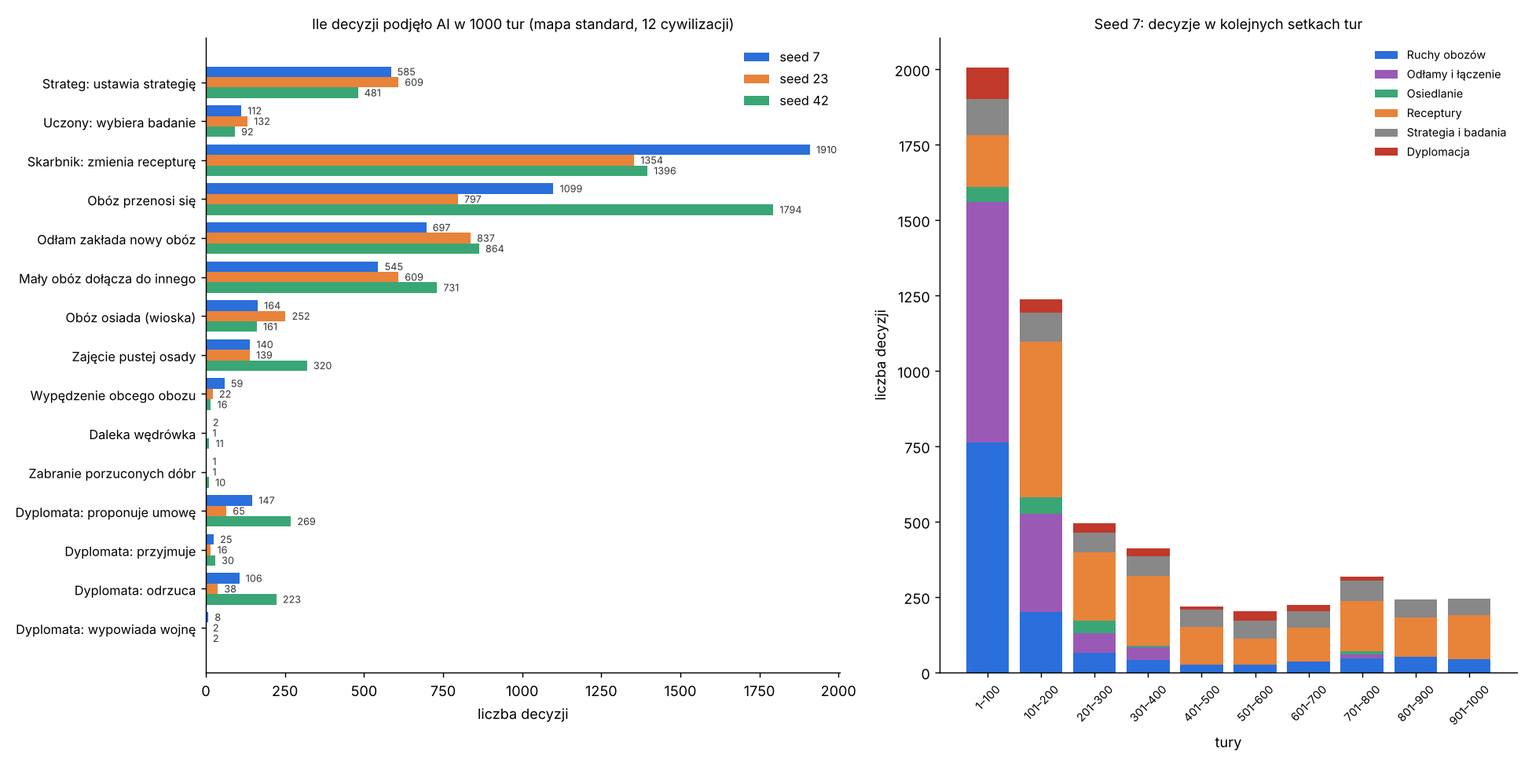
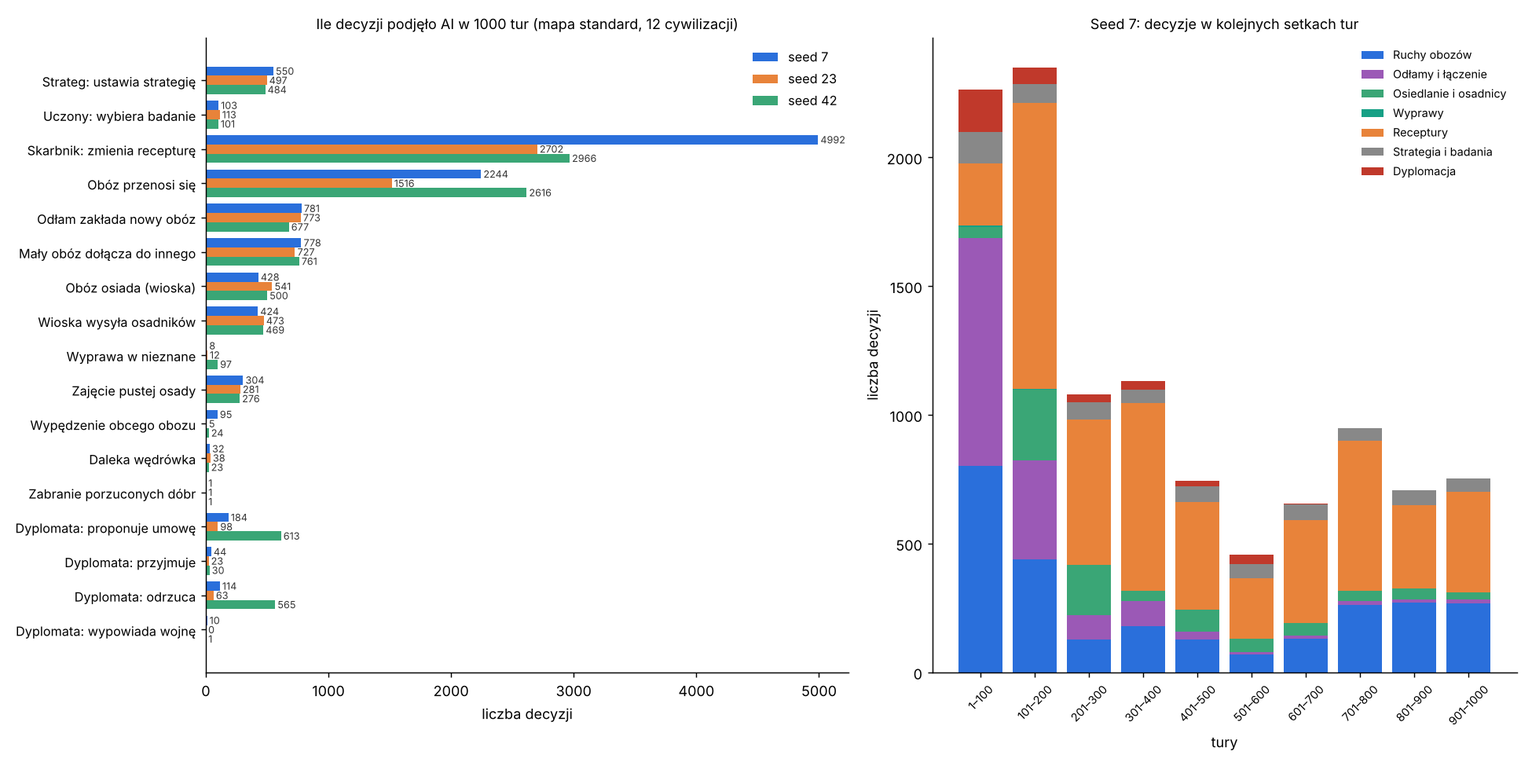
AI docs for PR C: evaluation, statistics, history, system page, charts
Claude-Session: https://claude.ai/code/session_01G7FPnTQzrnWpHdyxDhMmdW

diff --git a/docs/ai/tools/land_chart.py b/docs/ai/tools/land_chart.py
@@ -3,7 +3,7 @@
 Usage: python3 docs/ai/tools/land_chart.py RUNS_DIR
 RUNS_DIR holds before7.csv, before23.csv, before42.csv, after7.csv, after23.csv and after42.csv: --stats files
 (CivSim.Headless --stats, standard map, 1000 turns) from before and after a change. Needs the settlements and
-spread_cells columns (added in PR C); a "before" file without spread_cells draws only its settlements. Needs matplotlib.
+spread_cells columns (added in PR C; for an older build, add them to its HeadlessRun.cs first). Needs matplotlib.
 """
 import csv
 import os
@@ -38,15 +38,16 @@ for seed in SEEDS:
         spread = column(rows, 'spread_cells')
         if spread is not None:
             dist.plot(turns, spread, style, color=COLORS[seed], label=label)
-        camps = column(rows, 'camps')
+        lived = column(rows, 'settlements')
+        if lived is not None:
+            sets.plot(turns, lived, style, color=COLORS[seed], label=label)
         villages = column(rows, 'villages')
-        if camps is not None and villages is not None:
-            sets.plot(turns, [a + b for a, b in zip(camps, villages)], style, color=COLORS[seed], label=label)
+        if villages is not None:
             vill.plot(turns, villages, style, color=COLORS[seed], label=label)
 
 for ax, title, ylabel in (
         (dist, 'Jak daleko od startu żyją ludzie (średnia na osobę)', 'pola'),
-        (sets, 'Wszystkie osady (obozy + wioski)', 'liczba osad'),
+        (sets, 'Zamieszkane osady (obozy i wioski z ludźmi)', 'liczba osad'),
         (vill, 'Wioski (osady rolnicze)', 'liczba wiosek')):
     ax.set_title(title, fontsize=10)
     ax.set_xlabel('tura')

diff --git a/docs/ai/08-ocena-i-uwagi.md b/docs/ai/08-ocena-i-uwagi.md
@@ -3,7 +3,7 @@
 [← spis treści](README.md)
 
 Ta strona to moja (Claude) uczciwa ocena obecnego AI po przeczytaniu całego kodu i trzech grach po 1000 tur. Każda poprawka
-zmienia zasady gry, więc decydujesz Ty. **Stan: po PR B (wartości i priorytety)**; punkty, które PR B zamknął, są oznaczone.
+zmienia zasady gry, więc decydujesz Ty. **Stan: po PR C (ziemia i migracje)**; punkty, które PR B i PR C zamknęły, są oznaczone.
 
 ## Podsumowanie w jednej tabeli
 
@@ -11,16 +11,18 @@ zmienia zasady gry, więc decydujesz Ty. **Stan: po PR B (wartości i priorytety
 | --- | --- | --- |
 | Wspólna ocena i wybór (czynniki, 3 najlepsze, ostrożność) | **dobre** | jeden wzór dla wszystkich, deterministyczny, wyjaśnialny |
 | Gubernator: przeprowadzki, odłamy, wypędzenia | **dobre, rozsądnie złożone** | liczy jedzenie, wygodę, odległość, kierunek, opinię, siłę |
-| Gubernator: osiedlenie (G4) | **za proste** | w praktyce „zna rolnictwo i ma 60 osób = osiada” |
+| Gubernator: osiedlenie (G4) | **dobre (od PR C)** | plon dla prawdziwych rolników, porównanie ze zbieractwem i ekspansywnością |
 | Gubernator: łupy (G6), dołączanie (G1) | proste, ale wystarczy | rzadkie albo oczywiste sytuacje |
-| Wioski | **brak AI** | po osiedleniu gubernator nic nie robi |
+| Wioski | **proste (od PR C)** | wysyłają osadników (G7), gdy są zatłoczone albo pola wyjałowione; budowy i dzielnice w późniejszych etapach |
 | Strateg | **dobre (od PR B)** | każda z 6 wag na coś wpływa; nauka rośnie, gdy spotkani wiedzą więcej, wpływ z liczbą spotkanych; podbój czeka na 4e |
 | Charakter | **żywy (od PR B)** | każda cecha zmienia decyzję (test `DeadValueTests`); ciekawość zmniejsza strach przed kosztem technologii |
 | Dyplomata (4d) | **dobre, z jedną dziurą** | ta sama ocena dla obu stron, reaguje na wojnę i napad poza rytmem (ADR 0018); ale „widzi” dzisiejszą siłę z pamiętanych pól |
 | Skarbnik | **dobre (od PR B), jedna słabość** | osady sieci koordynują się, jedzenie kontra wyroby, premia za handel; zostało przełączanie odzież ↔ chleb |
 | Uczony | **dobre (od PR B)** | priorytet z położenia, braków i charakteru, koszt jako przeszkoda; rolnictwo przychodzi wcześniej (do oceny) |
-| Wiedza AI | **częściowo naprawione (PR B)** | obce obozy i ich siła tylko z pól widzianych w ostatnim kroku; jedzenie pól nadal dzisiejsze |
-| Rytm decyzji | **dobre (od ADR 0018)** | każda cywilizacja w rytmie swojej ery, reakcje poza rytmem; zwiad i ruch obozu nadal „na krok” (PR C) |
+| Wiedza AI | **częściowo naprawione (PR B, PR C)** | obce obozy i ich siła tylko z pól widzianych w ostatnim kroku; ziemia wyceniana z technologiami cywilizacji; jedzenie pól nadal dzisiejsze |
+| Wyprawy (G8) | **nowe, rzadkie** | 8–97 na grę; zależą od ciekawości i ekspansywności |
+| Rytm decyzji | **dobre (od ADR 0018, PR C)** | każda cywilizacja w rytmie swojej ery, reakcje poza rytmem; zwiad i marsz obozu na stulecie |
+| Wydajność | **do pilnowania (PR C)** | 3–4× więcej osad; stare systemy porównują każdą osadę z każdą (patrz pkt 10) |
 
 ## 1. Wagi i cechy, które nic nie zmieniają (zamknięte w PR B)
 
@@ -77,7 +79,7 @@ koszt jest przeszkodą, którą ciekawość zmniejsza. Opis: [uczony](05-uczony.
 Jeśli to za szybko, najprostsza gałka to `scholar.villageWorthPerPerson` (0,1). Zostały uproszczenia: uczony patrzy na wartości
 bazowe towarów (nie na ceny w sieci) i tylko jeden krok dalej.
 
-## 4. Osiedlenie to w praktyce próg, a nie wybór
+## 4. Osiedlenie to w praktyce próg, a nie wybór (zamknięte w PR C)
 
 Rachunek G4 zakłada, że każde pole strefy uprawia 40 rolników, choć obóz ma ich kilkudziesięciu. Dlatego plon wychodzi zwykle
 kilkanaście razy większy od potrzeb: w 539 osiedleniach z trzech gier mediana `farm yield` to ok. 1650%, najmniej 169%, najwięcej
@@ -86,6 +88,12 @@ koczowaniem, wag ani charakteru.
 
 **Propozycja:** liczyć plon dla prawdziwej liczby producentów (najlepsze pola najpierw, jak robi to system rolnictwa) i porównać z
 tym, co daje zbieractwo; ekspansywna cywilizacja mogłaby dłużej koczować.
+
+**Zrobione (PR C):** plon liczymy dla producentów obozu na najlepszych polach strefy (najwyżej `farmersPerCell` na pole), a
+osiedlenie wymaga też, żeby rolnictwo dało więcej niż zbieractwo razy waga ekspansji i ekspansywność
+(`settleOverGatheringPercent` = 100%). W 1469 osiedleniach z trzech gier mediana `farm yield` to 280% (najmniej 151%,
+najwięcej 363%), a `over gathering` 292% (101–1006). Próg 150% jest teraz prawdziwą granicą. Osiedleń jest 2–3 razy więcej niż
+przed PR C (428–541 zamiast 161–252), bo większość nowych obozów zakładają osadnicy z wiosek (G7) i one też osiadają.
 
 ## 5. Odstępy czasu: rozwiązane przez zegar świata (ADR 0018)
 
@@ -103,9 +111,11 @@ To celowo nie są lata: Twoja zasada „każda cywilizacja decyduje co tyle lat,
 planuje częściej. Tempa (wzrost, psucie, pamięć relacji) dalej są na rok.
 
 Uwaga do zostawionej rzeczy: zwiadowca (15 pól) i ruch obozu (10 pól) to nadal „na własny krok”, więc rozwinięte cywilizacje
-odkrywają świat i wędrują szybciej w przeliczeniu na rok. To zmieniamy w PR C (ziemia i migracje), bo zmienia równowagę wędrówek.
+odkrywają świat i wędrują szybciej w przeliczeniu na rok. **Zrobione (PR C):** zwiadowcy to 2 wyprawy na stulecie
+(`scoutsPerCentury`), a obóz w drodze idzie 20 pól na stulecie (`marchCellsPerCentury`, najwyżej jeden ruch na krok);
+`data/perception.json`.
 
-## 6. Gubernator nie zna swoich technologii
+## 6. Gubernator nie zna swoich technologii (zamknięte w PR C)
 
 Wartość miejsca liczy jedzenie pola **bez technologii cywilizacji**, a pól wody w ogóle nie liczy. Plemię z rybołówstwem, które
 naprawdę je ryby z wybrzeża, wycenia wybrzeże jak plemię bez rybołówstwa. Tak samo premie z łowiectwa i hodowli. AI wycenia więc
@@ -114,6 +124,9 @@ ziemię gorzej, niż ona naprawdę karmi, i rzadziej przenosi się nad morze.
 **Propozycja:** liczyć jedzenie z technologiami cywilizacji (system zbierania już to potrafi) i dodawać pola wody, jeśli cywilizacja
 zna rybołówstwo.
 
+**Zrobione (PR C):** jedzenie miejsca liczymy z technologiami zbierania cywilizacji (`GovernorAdvisor.Land`, wspólne dla
+cywilizacji o tym samym zestawie), a rybacy liczą pola wody przy lądzie swojej strefy.
+
 ## 7. Dziennik „Dlaczego?” czasem wprowadza w błąd
 
 Dziennik pokazuje 3 czynniki najdalsze od 1000. W seedzie 7 pierwszym czynnikiem jest `character` w 3600 z 7977 wpisów (45%), choć (pkt 1) nie wpłynął na wybór, bo wszystkie
@@ -121,11 +134,18 @@ opcje miały ten sam. Przykład z gry: `Scholar, SetResearch: character 105%, re
 
 **Propozycja:** w dzienniku pomijać czynniki wspólne dla wszystkich opcji danej decyzji.
 
-## 8. Wioski bez AI
+## 8. Wioski bez AI (zamknięte w PR C)
 
 Po osiedleniu gubernator nie robi z wioską nic: nie wyśle odłamu, gdy jest pełna, nie przeniesie ludzi, gdy brakuje jedzenia. Na
 [wykresie](09-statystyki.md) widać, że po turze ~300, gdy większość osad jest już wioskami, liczba decyzji spada kilkukrotnie.
 To zgodne z planem (budowy i dzielnice to późniejsze etapy), ale warto wiedzieć, że od neolitu AI „śpi”.
+
+**Zrobione (PR C):** wioska wysyła 60 osadników (G7), gdy jest zatłoczona (od 80% miejsc, wcześniej dla ekspansywnych) albo gdy
+jej pola mają mniej niż 70% naturalnej żyzności; najwyżej raz na 100 lat, w wolne miejsce poza strefami własnych osad.
+W 1000 tur to 424–473 grup na grę. Ludność na końcu jest 1,6–2,3 razy większa, a ludzie żyją średnio 20–24 pola od startu
+zamiast 10–12 ([wykres](09-statystyki.md#ziemia-i-migracje-pr-c)). Decyzji po turze 300 jest więcej niż przed PR C, ale nadal
+mniej niż na początku gry, bo wioski poza osadnikami nic nie robią.
+
 
 ## 9. Inne drobne rzeczy
 
@@ -149,6 +169,21 @@ To zgodne z planem (budowy i dzielnice to późniejsze etapy), ale warto wiedzie
 - **Czego GDD obiecuje, a jeszcze nie ma:** plany wieloetapowe (8.6), mapy zagrożeń i napięcia (8.2), prognozy zasobów („za 12 tur
   zabraknie żelaza”). To zgodne z planem etapów, ale dziś AI reaguje tylko na bieżący stan, nie planuje.
 
+## 10. Wydajność: stare systemy porównują każdą osadę z każdą (PR C)
+
+Po PR C osad jest 3–4 razy więcej (350–450 zamiast 80–130 na mapie standard po 1000 tur). Kilka systemów sprzed PR C sprawdza
+każdą parę osad: sieci handlowe (`TradeNetworks.Build`, budowane 5 razy na turę), przygotowanie dyplomaty, `CivFacts.Measure` i
+wysyłanie nadwyżek z magazynów. Par jest ~11 razy więcej, więc tura wydłużyła się z 16–19 ms do 37–52 ms (cel 50 ms).
+Koszt na jedną osadę jest taki jak przed PR C.
+
+W PR C przyspieszyłem trzy rzeczy bez zmiany wyniku (hash stanu identyczny): odległość na kuli pomija obrazy pola, które nie mogą
+być bliżej, nadwyżki sortują osady po wyliczonej raz odległości, a sieci nie liczą odległości dla osad już połączonych. To dało
+ok. 30–40% (seed 23: 81 → 52 ms).
+
+**Propozycja na później:** siatka przestrzenna osad (kubełki po kilka pól), żeby pary liczyć tylko dla bliskich osad, i jedna
+budowa sieci handlowych na turę. To zmiana kilku systemów naraz, więc osobny PR. Gdyby gra miała być szybsza od razu, można
+rzadziej wysyłać osadników (`villageSettlersEveryYears`) – ale to zmienia tempo gry, więc decyzja należy do Ciebie.
+
 ## Decyzje Patryka (2026-11-06)
 
 1. **Każda wartość ma na coś wpływać.** Tak (tak miało być od początku). **Zrobione:** PR B, test `DeadValueTests`.
@@ -158,5 +193,7 @@ To zgodne z planem (budowy i dzielnice to późniejsze etapy), ale warto wiedzie
 4. **Czas:** symulacja w latach, każda cywilizacja decyduje we własnym rytmie, decyzje reaktywne i proaktywne. **Zrobione:**
    ADR 0018 (licznik świata, kroki przypięte do kalendarza bez utraty lat, wartości er bez zmian).
 5. **Ziemia i migracje:** lepsza ocena ziemi; odłamy, które idą na nowe tereny i z czasem stają się osobnymi cywilizacjami.
+   **Zrobione w części:** PR C (ocena ziemi z technologiami, osiedlenie, osadnicy z wiosek, wyprawy, zwiad i marsz na stulecie).
+   Odłamy jako nowe cywilizacje: PR D (etap 4f).
 
 Plan wykonania: [`docs/prompts/04-ai-czas-wartosci-migracje.md`](../prompts/04-ai-czas-wartosci-migracje.md).

diff --git a/docs/systems/ai.md b/docs/systems/ai.md
@@ -18,7 +18,7 @@ flowchart LR
   S["Stan gry<br/>(tylko odczyt)"] --> ST["Strateg<br/>wagi celów, kierunek ekspansji<br/>(co 15 własnych kroków i w nowej erze)"]
   ST -->|SetStrategyCommand| S
   CH["Charakter<br/>8 cech"] --> E
-  S --> G["Gubernator<br/>obozy: przeniesienie, odłam,<br/>osiedlenie, wędrówka, łupy"]
+  S --> G["Gubernator<br/>obozy: przeniesienie, odłam,<br/>osiedlenie, wędrówka, łupy, wyprawa;<br/>wioski: osadnicy"]
   S --> T["Skarbnik<br/>receptury osad"]
   S --> U["Uczony<br/>następna technologia"]
   G --> E["Ocena działania<br/>wartość × czynniki × waga celu × charakter − koszt"]
@@ -38,6 +38,7 @@ flowchart LR
 - **Kierunek ekspansji:** miejsce bliżej celu niż obecny obóz dostaje +15% (`directionBonusPercent`, „sugestia” z GDD 7.6). Premia nie dotyczy obcych obozów.
 - **Odłamy z powodu, nie tylko z głodu:** obóz wysyła grupę, gdy jest pełny w 80% podzielone przez (waga ekspansji × mnożnik charakteru), ale nie niżej niż 50% i nie wyżej niż 100%. Ekspansywna cywilizacja w ciasnych obozach rozsyła ludzi wcześniej.
 - **Priorytet i koszt** (PR B, ADR 0019): każda opcja mówi, któremu celowi służy. Uczony liczy priorytet technologii z tego, co da cywilizacji na rok (zbieranie, receptury, efekty, wioski, droga dalej), każdą część ważoną jej celem i charakterem, i mnoży przez przeszkodę kosztu `r × (r + (1 − r) × ciekawość)`, gdzie r = najtańsza / ta. Skarbnik waży jedzenie bezpieczeństwem, a wyroby dobrobytem. Pełny opis: `docs/ai/`.
+- **Ziemia i migracje** (PR C): gubernator wycenia jedzenie miejsca z technologiami zbierania cywilizacji (`Land`, jeden widok na zestaw technologii, liczony od nowa tylko po nauczeniu się technologii zbierania); rybacy liczą pola wody przy lądzie strefy. Obóz osiada (G4), gdy jego producenci na najlepszych polach strefy wyżywią go z zapasem 150% i rolnictwo da więcej niż zbieractwo razy waga ekspansji i ekspansywność (`settleOverGatheringPercent`). Wioska (G7) wysyła 60 osadników, gdy jest pełna w 80% (mniej dla ekspansywnych) albo jej pola mają poniżej 70% naturalnej żyzności, najwyżej raz na 100 lat (rozłożone między wioski), w wolne miejsce poza strefami własnych osad. Ciekawy i ekspansywny obóz (G8) wysyła 25% ludzi tam, gdzie co najmniej 30% lądu w promieniu 3 pól jest nieznane. Zwiad: 2 wyprawy na stulecie po 15 pól; obóz w drodze idzie 20 pól na stulecie (`data/perception.json`).
 - **Wybór** (`Chooser`): doradca trzyma 3 najlepsze działania (`pickAmongTop`). Z szansą równą ostrożności cywilizacja bierze najlepsze, w przeciwnym razie losuje spośród trzech z szansą proporcjonalną do oceny. Przy remisie wygrywa działanie ocenione wcześniej. Losowanie jest deterministyczne: generator zależy tylko od seeda, doradcy, osady albo cywilizacji i tury, a wspólny strumień `ai` się nie przesuwa.
 - **Histereza** (GDD 8.6): obóz przenosi się tylko, gdy nowe miejsce jest lepsze o co najmniej 30% (`moveWhenBetterByPercent`), a do wędrówki o 60%. „Zostać” dostaje tylko połowę odchylenia wagi ekspansji i ekspansywności (`moveExpansionSharePercent`, PR B), więc zatłoczone, ekspansywne plemię rusza chętniej. Rzemieślnicy zmieniają recepturę tylko na lepszą o 25% (`recipeSwitchBetterByPercent`); obecna receptura liczy się jako wykonalna, nawet gdy w tej turze zabrakło wejść (produkcja po prostu czeka).
 - **Rytm i reakcje** (ADR 0018): rada liczy decyzje cywilizacji tylko w jej własnym kroku (rytm jej ery). Poza rytmem reaguje na alarmy: wypowiedziana wojna (dyplomata: przegląd stosunków) i napad na obóz (dyplomata oraz obozy od razu szukają bezpieczniejszego miejsca). Odpowiedź na propozycję i wybór badania zapadają w każdym kroku świata. Alarmy są kasowane po fazie decyzji.
@@ -47,7 +48,7 @@ flowchart LR
 | Doradca | Klasa | Decyduje o | Kiedy (ADR 0018) |
 | --- | --- | --- | --- |
 | Strateg | `StrategistAdvisor` | wagi celów, cel ekspansji (`SetStrategyCommand`) | co 15 własnych kroków, rozłożone; od razu w nowej erze |
-| Gubernator | `GovernorAdvisor` | przeniesienie obozu, odłam, przyłączenie małego obozu, osiedlenie się jako wioska, wędrówka do dalekiego miejsca, łupy z opuszczonych osad, wypędzenie słabszego obozu | przetrwanie w każdym własnym kroku, reszta raz na długość kroku ery; po napadzie od razu (szukanie miejsca) |
+| Gubernator | `GovernorAdvisor` | przeniesienie obozu, odłam, przyłączenie małego obozu, osiedlenie się jako wioska, wędrówka do dalekiego miejsca, łupy z opuszczonych osad, wypędzenie słabszego obozu, wyprawa w nieznane; osadnicy z wiosek (PR C) | przetrwanie w każdym własnym kroku, reszta raz na długość kroku ery; po napadzie od razu (szukanie miejsca) |
 | Skarbnik | `TreasurerAdvisor` | receptura rzemieślników w każdej osadzie | raz na długość kroku ery |
 | Uczony | `ScholarAdvisor` | następna technologia | gdy nic nie jest badane (reakcja, w każdym kroku świata) |
 
@@ -57,7 +58,9 @@ Dyplomata (etap 4d) jest opisany w `docs/systems/diplomacy.md`; dowódca przyjdz
 
 ## Pliki danych
 - `data/ai.json` (wersja 3): `pickAmongTop` (3), przeglądy stratega, krzywe wag (zatłoczenie, głód, przewaga technologiczna spotkanych, liczba spotkanych), premia za kierunek, próg zmiany receptury, rzadsze szukanie miejsc, najniższy próg odłamu; cele jedzenia i towarów, premia za handel; progi gubernatora (wędrówka, osiedlenie, łupy, wygoda, opinia) i rozłożenie przeglądów dyplomaty; sekcja `scholar` z wartościami uczonego (PR B). Pełna tabela: `docs/ai/07-parametry.md`.
-- `data/population.json`: progi i kary, z których gubernator buduje czynniki.
+- `data/population.json`: progi i kary, z których gubernator buduje czynniki; `farmersPerCell` dla rachunku osiedlenia.
+- `data/perception.json` (PR C): `scoutsPerCentury`, `marchCellsPerCentury`.
+- `data/ai.json` (PR C): `settleOverGatheringPercent`, `villageSettlers*`, `villageWornBelowPercent`, `explore*`.
 
 ## Testy
 - `UtilityTests`: krzywe (prosta, S, próg, nigdy poniżej zera); czynniki w tysięcznych dają dokładnie ten sam wynik co rachunek procentowy z etapu 3 (10 000 losowych przypadków); zero wyklucza działanie; neutralna waga i charakter nic nie zmieniają; koszt i notatki; kolejność „Dlaczego?”; wybór: najlepsze, remisy, 3 najlepsze w kolejności, losowanie zgodne z ocenami i powtarzalne, brak przepełnienia.
@@ -66,13 +69,18 @@ Dyplomata (etap 4d) jest opisany w `docs/systems/diplomacy.md`; dowódca przyjdz
 - `StrategyTests`: charakter z seeda, różny między cywilizacjami, w skali 0–1000; mnożnik 0,5–1,5; strateg przegląda wszystkich w pierwszej turze, potem rozkłada przeglądy; cel ekspansji to znany ląd; głód podnosi dobrobyt i bezpieczeństwo; komenda strategii odrzuca złe dane; rzemieślnicy nie zmieniają receptur co turę; charakter i strategia przechodzą przez zapis; ruchy w stronę celu dostają premię.
 - `DeadValueTests` (PR B): każda cecha (0 i 1000), każda waga celu (300 i 3000) i każdy parametr `data/ai.json` (0, połowa, podwojenie, 10 razy, milion) zmienia co najmniej jedną decyzję w zapisanych sytuacjach z gier (obozy, wioski z handlem, sytuacje ułożone: wędrówka, wypędzenie, łupy, rynek); sprawdzenie, że odcisk decyzji w ogóle widzi zmianę.
 - `AiValueTests` (PR B): rybołówstwo warte więcej nad morzem, ogień w zimnie, rolnictwo na żyznej ziemi; ciekawość zmniejsza przeszkodę kosztu (25% → 50% dla dwa razy droższej); „widziane teraz” to tylko pola z ostatniego własnego kroku.
+- `LandAndMigrationTests` (PR C): rybacy cenią wybrzeże wyżej niż cywilizacja bez rybołówstwa; zatłoczona wioska wysyła osadników, a spokojna nie. Nowe parametry `data/ai.json` sprawdza też `DeadValueTests` (każdy zmienia co najmniej jedną decyzję).
 - `DeterminismTests`, `WorldGeneratorTests`: nowe złote hashe (stan zawiera charakter; sama mapa się nie zmieniła).
 
 ## Wydajność
+- **PR C**, ta sama maszyna (kontener w chmurze), Release, po kolei, przed (`development` 3233763) → po: standard seed 7: 15,6 → 37,3 ms; seed 23: 18,8 → 52,4 ms; seed 42: 15,8 → 48,2 ms (1000 tur); ogromna seed 42, 300 tur: 109 → 163 ms. Pamięć (working set) 191–200 → 215–217 MB, ogromna 225 → 260 MB. Osad jest 3,4–4,2 razy więcej, a koszt na osadę jest taki jak przed PR C: drożeją stare porównania każdej osady z każdą (sieci handlowe, dyplomata, `CivFacts`, nadwyżki). Bez zmiany wyniku przyspieszone: `HexGlobe.NearestImage` (pomija obrazy, które nie mogą być bliżej), `StorageSystem.SendSurplus` (sortowanie po wyliczonej raz odległości, bez alokacji) i `TradeNetworks.Build` (bez odległości dla osad już w jednej sieci); seed 23: 81 → 52 ms, hash `FF4C717C0D03518D` bez zmian. Propozycja na później: siatka przestrzenna osad (`docs/ai/08-ocena-i-uwagi.md`, pkt 10).
 - **4b**, ta sama maszyna, Release, 1000 tur, mapa standard (przed → po): seed 7: 20,4 → 19,4 ms; seed 11: 14,9 → 13,4 ms; seed 23: 27,9 → 22,2 ms; seed 42: 19,0 → 20,0 ms. Mapa ogromna, seed 42, 150 tur: 150,8 → 154,1 ms (szczyt 235 → 294 ms); cel to 250 ms średnio. Alokacje na turę bez zmian (ok. 250–420 KB).
 - Gubernator najpierw liczy górną granicę oceny miejsca z nietkniętej ziemi i pomija pola, które i tak nie weszłyby do 3 najlepszych (wynik identyczny, sprawdzone hashem).
 - **4a:** seed 7 i 11, mapa standard, 1000 tur, ta sama maszyna: hash stanu identyczny jak przed etapem 4a (`4FE3BE49C2F03AF8`, `280BCF460E9A1470`). Czas tury 19,9 / 14,4 ms (przed: 26,2 / 17,5 ms; różnica to szum pomiaru, logika się nie zmieniła). Alokacje na turę bez zmian (349,7 / 253,8 KB).
 - Ocena pola to struktura bez alokacji (8 czynników w tablicy wbudowanej); kosztowne sprawdzenia (siła obrońców, wolne miejsce, ścieżka) liczymy tylko dla działań, które wybór by zatrzymał.
+
+## Zachowanie po PR C (seedy 7, 23, 42; 1000 tur)
+- Ludzie żyją średnio 20–24 pola od startu (przed: 10–12), zamieszkanych osad 346–446 (83–129), ludność 1,6–2,3 razy większa. Pierwszy neolit bez zmian (±10 kroków). Szczegóły i wykres: `docs/ai/09-statystyki.md`.
 
 ## Zachowanie po 4b (seedy 7, 11, 23, 42; 1000 tur)
 - Zmiany receptur: 82 810 → ok. 1 900 (seed 7); 101 868 → ok. 4 000 (seed 23). Przełączanie co turę z etapu 3e zniknęło.

diff --git a/docs/ai/09-statystyki.md b/docs/ai/09-statystyki.md
@@ -3,7 +3,8 @@
 [← spis treści](README.md)
 
 Trzy gry bez grafiki: mapa standard (256×160), 12 cywilizacji, 1000 kroków świata (ok. 27–29 tys. lat), seedy 7, 23 i 42,
-gałąź `feat/ai-values` (PR B: wartości i priorytety). W nawiasach liczby sprzed PR B (`development`, commit `fbcc0d9`). Polecenie:
+gałąź `feat/ai-land` (PR C: ziemia i migracje). W nawiasach liczby sprzed PR C (`development`, commit `3233763`, po PR B).
+Polecenie:
 
 ```
 dotnet run --project src/CivSim.Headless -c Release -- --seed 7 --turns 1000 --map-size standard --decisions why7.csv --stats stats7.csv
@@ -12,6 +13,32 @@ dotnet run --project src/CivSim.Headless -c Release -- --seed 7 --turns 1000 --m
 Wykres: `python3 docs/ai/tools/decisions_chart.py <katalog z why7.csv, why23.csv, why42.csv>` (potrzebuje matplotlib).
 
 ![Ile decyzji podjęło AI](img/decyzje_1000_tur.png)
+
+## Ziemia i migracje (PR C)
+
+Przed PR C i po nim: jak daleko od startu żyją ludzie, zamieszkane osady i wioski (`python3 docs/ai/tools/land_chart.py <katalog>`,
+pliki `before*.csv` i `after*.csv` z `--stats`):
+
+![Ziemia i migracje przed i po](img/ziemia_przed_po.png)
+
+| Seed | Pierwszy neolit (krok, rok) | Ludzie na końcu | Żywe cywilizacje | Technologie (średnio) | Zamieszkane osady | Wioski | Odległość od startu (pola) |
+| --- | --- | ---: | ---: | ---: | ---: | ---: | ---: |
+| 7 | 110, rok 5275 (120, rok 5850) | 216 297 (113 050) | 10 (10) | 9,2 (10,4) | 346 (83) | 334 (80) | 20 (12) |
+| 23 | 100, rok 4950 (100, rok 4800) | 285 848 (163 527) | 7 (9) | 14,0 (14,0) | 446 (129) | 443 (129) | 22 (10) |
+| 42 | 90, rok 4475 (90, rok 4425) | 266 084 (117 473) | 7 (8) | 12,1 (9,5) | 410 (97) | 407 (91) | 24 (11) |
+
+Co z tego widać:
+
+- **Ludzie rozchodzą się po świecie.** Przed PR C liczba osad spadała po turze ~200 (obozy osiadały i stały w miejscu), a ludzie
+  zostawali ok. 10–12 pól od startu. Teraz wioski wysyłają osadników (G7, 424–473 grup na grę), osad przybywa do tury ~500–800,
+  a ludzie żyją średnio 20–24 pola od startu. Ludności jest 1,6–2,3 razy więcej.
+- **Osiedlenie jest prawdziwym rachunkiem.** Mediana plonu z pól przy osiedleniu spadła z ok. 1640% do 280%, a rolnictwo musi
+  dać więcej niż zbieractwo (mediana `over gathering` 292%). Osiedleń jest 2–3 razy więcej, bo osiadają też obozy osadników.
+- **Wyprawy w nieznane (G8) są rzadkie**: 8, 12 i 97 na grę, prawie tylko w cywilizacjach ciekawych i ekspansywnych
+  (`exploreAbovePerMille` = 1,5). Dalekich wędrówek (G3) jest więcej (23–38 zamiast 1–11), bo obóz idzie teraz 20 pól na stulecie.
+- **Więcej zmian receptur** (2700–5000 zamiast 1350–1900): osad jest więcej, a każda wybiera recepturę.
+- **Neolit w tym samym czasie** (±10 kroków): zmiana dotyczy tego, co dzieje się po osiedleniu, a nie tempa rolnictwa.
+- Tura jest dłuższa, bo osad jest więcej ([uwagi, pkt 10](08-ocena-i-uwagi.md)).
 
 Przed PR B i po nim: ludność, technologie i zmiany receptur (`python3 docs/ai/tools/values_chart.py <przed> <po>`, katalogi ze
 `stats*.csv` i `why*.csv`):
@@ -22,7 +49,7 @@ Rytmy cywilizacji i ludność przed zegarem i po nim (ADR 0018, `python3 docs/ai
 
 ![Rytmy cywilizacji i ludność przed/po](img/zegar_rytmy.png)
 
-## Najważniejsze liczby przed PR B i po nim
+## Najważniejsze liczby przed PR B i po nim (historia)
 
 | Seed | Pierwszy neolit (krok, rok) | Ludzie na końcu | Żywe cywilizacje | Technologie (średnio) | Wioski |
 | --- | --- | ---: | ---: | ---: | ---: |
@@ -30,28 +57,32 @@ Rytmy cywilizacji i ludność przed zegarem i po nim (ADR 0018, `python3 docs/ai
 | 23 | 100, rok 4800 (140, rok 6875) | 163 527 (117 698) | 9 (7) | 14,0 (13,0) | 129 (81) |
 | 42 | 90, rok 4425 (150, rok 7350) | 117 473 (103 500) | 8 (7) | 9,5 (10,6) | 91 (66) |
 
-## Liczba decyzji w 1000 tur
+## Liczba decyzji w 1000 tur (PR C; w nawiasach przed PR C)
 
 | Decyzja | Id | Seed 7 | Seed 23 | Seed 42 |
 | --- | --- | ---: | ---: | ---: |
-| strateg ustawia strategię | S1 | 585 (436) | 609 (488) | 481 (479) |
-| uczony wybiera badanie | U1 | 112 (84) | 132 (116) | 92 (107) |
-| skarbnik zmienia recepturę | T1 | 1910 (2514) | 1354 (1926) | 1396 (2737) |
-| obóz przenosi się | G2 | 1099 (1639) | 797 (1426) | 1794 (2413) |
-| zajęcie pustej osady (przeniesienie albo odłam) | G2, G5 | 140 (248) | 139 (266) | 320 (379) |
-| wypędzenie obcego obozu | G2 | 59 (138) | 22 (118) | 16 (39) |
-| odłam zakłada nowy obóz | G5 | 697 (1142) | 837 (1368) | 864 (1438) |
-| mały obóz dołącza do innego | G1 | 545 (978) | 609 (1225) | 731 (1345) |
-| obóz osiada (wioska) | G4 | 164 (163) | 252 (174) | 161 (134) |
-| daleka wędrówka | G3 | 2 (3) | 1 (2) | 11 (8) |
-| zabranie porzuconych dóbr | G6 | 1 (0) | 1 (2) | 10 (1) |
-| dyplomata proponuje umowę albo pokój | D2 | 147 (273) | 65 (110) | 269 (696) |
-| dyplomata przyjmuje propozycję | D1 | 25 (40) | 16 (19) | 30 (37) |
-| dyplomata odrzuca propozycję | D1 | 106 (199) | 38 (78) | 223 (641) |
-| dyplomata wypowiada wojnę | D2 | 8 (19) | 2 (3) | 2 (1) |
-| **razem** | | **5600** (7876) | **4874** (7321) | **6400** (10455) |
+| strateg ustawia strategię | S1 | 550 (585) | 497 (609) | 484 (481) |
+| uczony wybiera badanie | U1 | 103 (112) | 113 (132) | 101 (92) |
+| skarbnik zmienia recepturę | T1 | 4992 (1910) | 2702 (1354) | 2966 (1396) |
+| obóz przenosi się | G2 | 2244 (1099) | 1516 (797) | 2616 (1794) |
+| zajęcie pustej osady (przeniesienie albo odłam) | G2, G5 | 304 (140) | 281 (139) | 276 (320) |
+| wypędzenie obcego obozu | G2 | 95 (59) | 5 (22) | 24 (16) |
+| odłam zakłada nowy obóz | G5 | 781 (697) | 773 (837) | 677 (864) |
+| mały obóz dołącza do innego | G1 | 778 (545) | 727 (609) | 761 (731) |
+| obóz osiada (wioska) | G4 | 428 (164) | 541 (252) | 500 (161) |
+| wioska wysyła osadników | G7 | 424 (–) | 473 (–) | 469 (–) |
+| wyprawa w nieznane | G8 | 8 (–) | 12 (–) | 97 (–) |
+| daleka wędrówka | G3 | 32 (2) | 38 (1) | 23 (11) |
+| zabranie porzuconych dóbr | G6 | 1 (1) | 1 (1) | 1 (10) |
+| dyplomata proponuje umowę albo pokój | D2 | 184 (147) | 98 (65) | 613 (269) |
+| dyplomata przyjmuje propozycję | D1 | 44 (25) | 23 (16) | 30 (30) |
+| dyplomata odrzuca propozycję | D1 | 114 (106) | 63 (38) | 565 (223) |
+| dyplomata wypowiada wojnę | D2 | 10 (8) | 0 (2) | 1 (2) |
+| **razem** | | **11092** (5600) | **7863** (4874) | **10204** (6400) |
 
-Co z tego widać:
+Tabela decyzji po PR B (z liczbami sprzed PR B) jest w historii tej strony w gicie (commit `3233763`).
+
+Co widać po PR B (historia):
 
 - **Rolnictwo przychodzi wcześniej.** Uczony wycenia wioski z żyzności strefy, a ogień i krzemień z drogi do rolnictwa, więc
   rolnictwo jest zwykle 2. albo 3. badaniem. Pierwszy neolit wypada o 40–60 kroków (ok. 2000–2900 lat) wcześniej. **To duża zmiana
@@ -80,6 +111,9 @@ Co z tego widać:
 | 7, 26 | Civilization 10 | G2 Occupy | 23 112 | distance 79% (7 pól), direction 115%, own old campsite 110% |
 | 23, 24 | Civilization 1 | G3 Journey | 37 161 | goal weight 137% (ekspansja), character 81%, distance 83% (17 pól) |
 | 7, 168 | Civilization 1 | G4 Settle | 126 000 | farm yield 1563%, people 78 |
+| 7, 84 (PR C) | Lakhaem | G4 Settle | 28 314 | farm yield 299%, over gathering 191, people 92 |
+| 7, 93 (PR C) | Lakhaem | G7 SendSettlers | 10 538 | character 76%, distance 82% (6 pól), food 16713 |
+| 42, 2 (PR C) | Osxou | G8 Explore | 37 | character 155%, direction 115% (4), unknown 21 |
 | 7, 5 | Civilization 1 | G5 SplitCamp | 78 669 | character 120%, direction 115%, distance 88% (4 pola) |
 | 7, 21 | Civilization 10 | G1 JoinCamp | 13 | people 13 |
 | 7, 419 | Civilization 4 | G6 Plunder | 22 081 | goods left 22081 |
@@ -90,7 +124,7 @@ Co z tego widać:
 | 7, 20 (4d) | Civilization 12 | D1 DeclineTreaty ← Civ 7 | 695 | threat 70% (ich wojownicy 81% naszych), character 98%, opinion 100% |
 | 7, 43 (4d) | Civilization 12 | D2 DeclareWar → Civ 7 | 2 134 | opinion 153% (sympatia −38), strength 150% (przewaga 293%), character 93% |
 
-Wiersze bez „(4d)” i „(PR B)” pochodzą z gier w wersji 4c; reguły tych decyzji zmieniły się tylko w szczegółach (G2: umowy, wojna,
+Wiersze bez „(4d)”, „(PR B)” i „(PR C)” pochodzą z gier w wersji 4c; reguły tych decyzji zmieniły się tylko w szczegółach (G2: umowy, wojna,
 widzenie obcych obozów i połowa wagi ekspansji dla „zostać”, patrz gubernator). Od PR #38 cywilizacje mają nazwy zamiast numerów.
 
 Jak czytać czynnik: `distance 73% (9)` znaczy „bliskość obniżyła ocenę do 73%, bo miejsce jest 9 pól dalej”. Liczba w nawiasie to

diff --git a/docs/ai/README.md b/docs/ai/README.md
@@ -4,7 +4,7 @@ Ten katalog opisuje **każdą decyzję**, którą podejmuje sztuczna inteligencj
 na podstawie jakich danych, według jakiego wzoru, z jakimi progami i gdzie to jest w kodzie. Jest pisany dla Patryka:
 żeby można było ocenić, czy mechanika nie jest za prosta albo za skomplikowana i bez sensu.
 
-**Stan opisu:** etap 4d + zegar świata (ADR 0018) + wartości i priorytety (PR B, ADR 0019; gałąź `feat/ai-values`, commit `6bfae1f`). Dowódca i armie (4e) jeszcze nie istnieją.
+**Stan opisu:** etap 4d + zegar świata (ADR 0018) + wartości i priorytety (PR B, ADR 0019) + ziemia i migracje (PR C; gałąź `feat/ai-land`, commit `51067a5`). Dowódca i armie (4e) jeszcze nie istnieją.
 **Aktualizacja:** po każdym etapie, który zmienia AI (zasada w `CLAUDE.md`). Historia zmian jest na dole tej strony.
 
 ## Jak czytać
@@ -126,3 +126,4 @@ w `docs/systems/`:
 | 2026-11-06 | 4d | Dyplomata (D1, D2, wojna i pokój, sojusznicy), zakaz wypędzeń przez umowy i premia w wojnie (G2), wagi celów i cechy używane w dyplomacji, nowe parametry z `data/diplomacy.json`, nowe statystyki i wykres. |
 | 2026-11-06 | zegar (ADR 0018) | Rytm każdej cywilizacji: decyzje proaktywne we własnym kroku, reaktywne (alarmy wojny i napadu, propozycje, wybór badania) w każdym kroku świata; nowe reakcje D2 i G2; odstępy AI w własnych krokach (`reviewEverySteps`, `searchEverySteps`, `minStepsBetweenMoves`); zwiad, widzenie i pogłoski w własnym kroku; nowe statystyki, wykres rytmów i ludności przed/po. |
 | 2026-11-06 | wartości (PR B, ADR 0019) | Uczony od nowa (priorytet z położenia, braków i charakteru, koszt jako przeszkoda łagodzona ciekawością); skarbnik: cele towarów, koordynacja sieci, koniec przełączania „praca ↔ brak”, premia za handel; strateg: wagi nauki i wpływu; „zostać” z połową wagi ekspansji; obce obozy i wojownicy tylko z pól widzianych teraz; 11 liczb z kodu do `data/ai.json` (sekcja `scholar`); test martwych wartości; nowe statystyki z 3 seedów, wykresy decyzji i „przed/po”. |
+| 2026-11-06 | ziemia i migracje (PR C) | Gubernator wycenia ziemię z technologiami zbierania cywilizacji, rybacy liczą wodę; G4 osiedlenie dla prawdziwej liczby producentów i w porównaniu ze zbieractwem i ekspansywnością (`settleOverGatheringPercent`); nowe decyzje G7 (wioska wysyła osadników) i G8 (wyprawa w nieznane); osadnicy omijają strefy własnych osad; zwiad i marsz na stulecie (`data/perception.json`); nowe parametry w `data/ai.json`; punkty 4, 5, 6 i 8 oceny zamknięte, nowy punkt 10 (wydajność); statystyki z 3 seedów, wykres ziemi i migracji, wykres decyzji z G7 i G8. |
